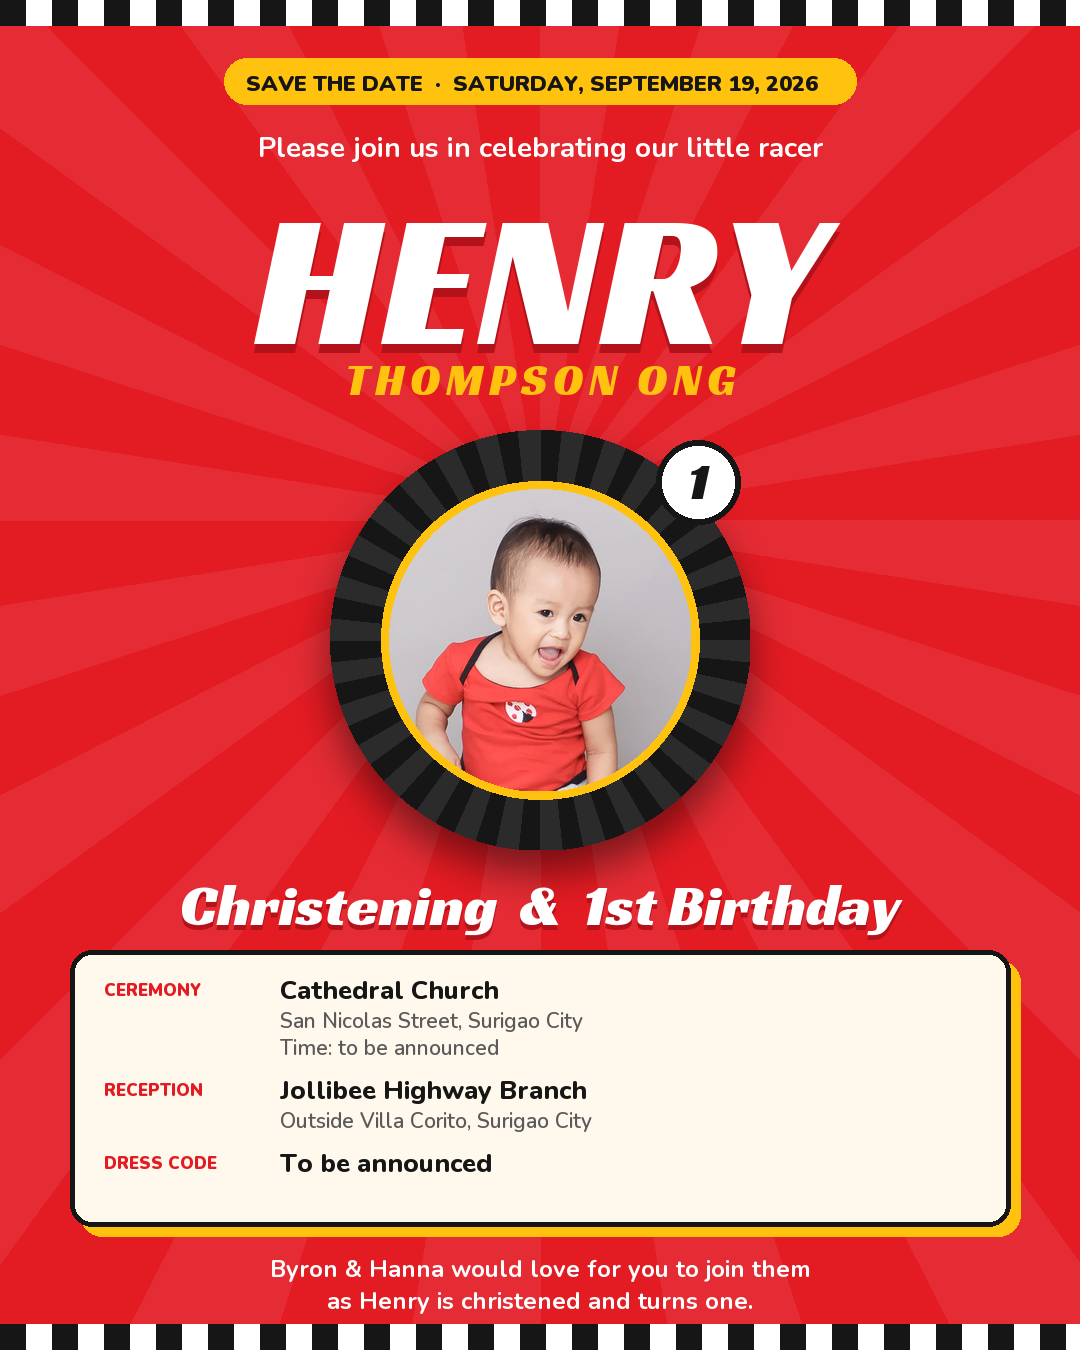
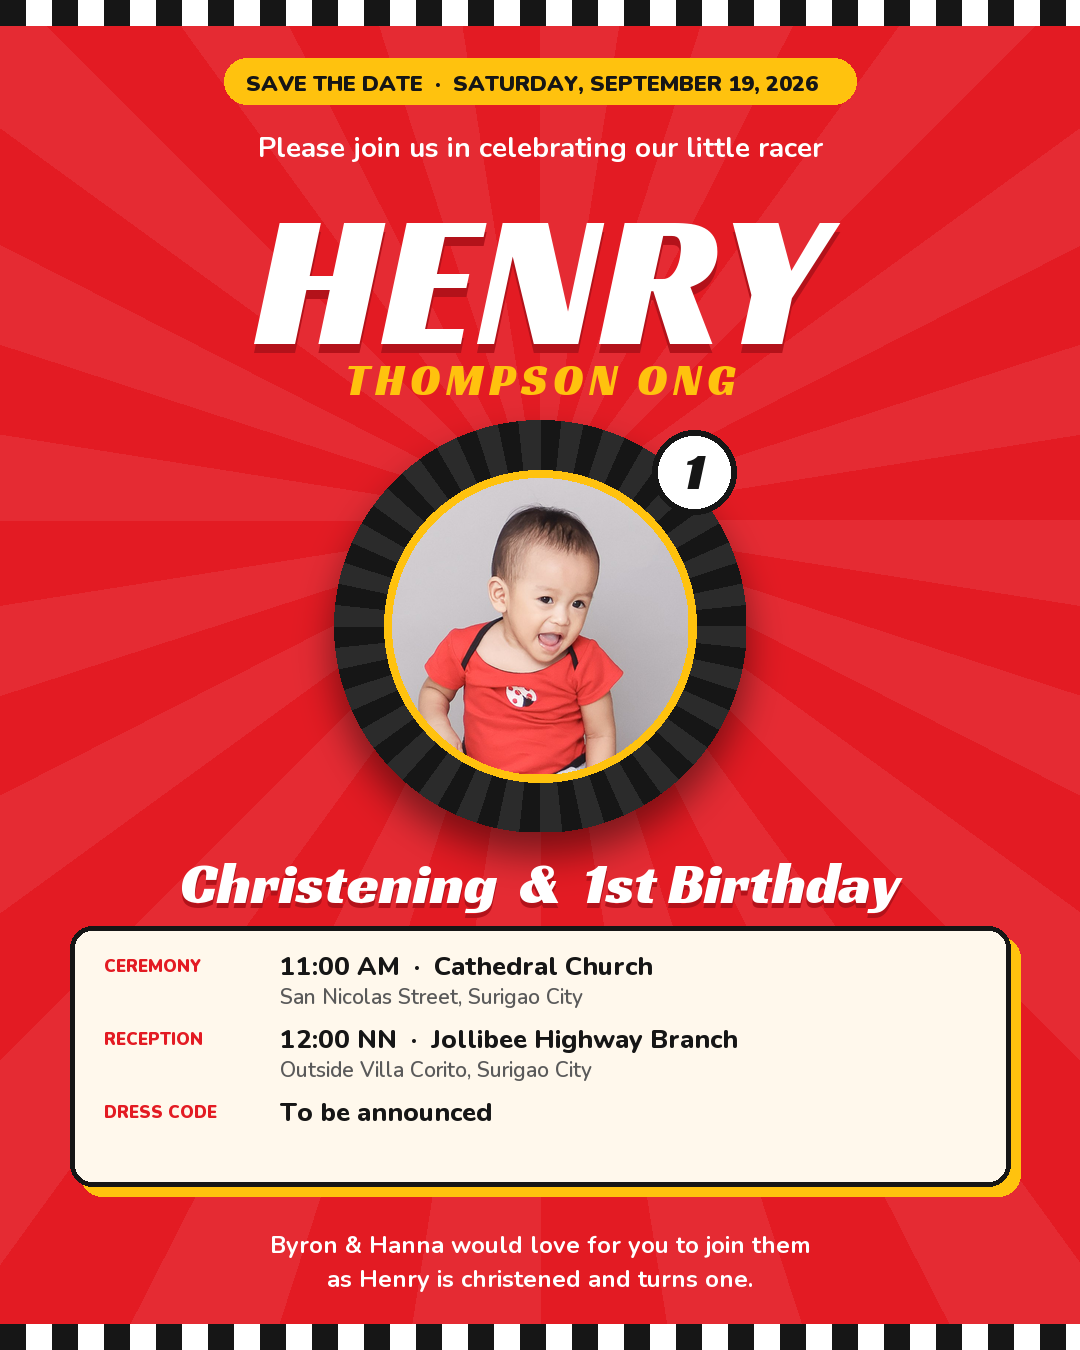
Ceremony 11:00 AM / lunch 12:00 NN, godparents listed, links prefilled, personalised godparent cards

Changed region(s): [[0.0611, 0.3111, 0.9472, 0.9644], [0.3361, 0.3422, 0.4278, 0.4356]]

diff --git a/index.html b/index.html
@@ -374,6 +374,11 @@
   .card h4{font-size:11px;letter-spacing:2px;text-transform:uppercase;color:#888;font-weight:900}
   .card p{margin-top:8px;font-size:clamp(16px,4.6vw,20px);line-height:1.2;font-weight:900;color:var(--black)}
   .card.full{grid-column:1/-1}
+  .card.godp h4 + ul{margin:8px 0 14px}
+  .card.godp ul{list-style:none;display:grid;grid-template-columns:1fr 1fr;gap:6px 14px;text-align:left}
+  .card.godp li{font-size:14px;font-weight:700;color:var(--black);line-height:1.3;padding-left:14px;position:relative}
+  .card.godp li::before{content:"";position:absolute;left:0;top:7px;width:7px;height:7px;border-radius:50%;background:var(--red)}
+  @media (max-width:420px){.card.godp ul{grid-template-columns:1fr}}
 
   /* footer */
   footer{background:var(--red);color:#fff;text-align:center;padding:48px 0 40px;position:relative;overflow:hidden}
@@ -501,7 +506,7 @@
     <div class="btns">
       <!-- CALENDAR: all-day until the time is final; then switch dates to 20260919T090000/20260919T130000 -->
       <a class="btn" id="calBtn" target="_blank" rel="noopener"
-         href="https://calendar.google.com/calendar/render?action=TEMPLATE&text=Henry%27s%20Christening%20%26%201st%20Birthday&dates=20260919/20260920&details=Ceremony%3A%20Cathedral%20Church%2C%20San%20Nicolas%20Street%2C%20Surigao%20City.%20Reception%3A%20Jollibee%20Highway%20Branch%2C%20outside%20Villa%20Corito%2C%20Surigao%20City.&location=Cathedral%20Church%2C%20San%20Nicolas%20Street%2C%20Surigao%20City">
+         href="https://calendar.google.com/calendar/render?action=TEMPLATE&text=Henry%27s%20Christening%20%26%201st%20Birthday&dates=20260919T110000/20260919T150000&ctz=Asia/Manila&details=Ceremony%3A%20Cathedral%20Church%2C%20San%20Nicolas%20Street%2C%20Surigao%20City.%20Reception%3A%20Jollibee%20Highway%20Branch%2C%20outside%20Villa%20Corito%2C%20Surigao%20City.&location=Cathedral%20Church%2C%20San%20Nicolas%20Street%2C%20Surigao%20City">
         <svg viewBox="0 0 24 24" fill="none" stroke="currentColor" stroke-width="2.4" stroke-linecap="round" stroke-linejoin="round"><rect x="3" y="5" width="18" height="16" rx="2"/><path d="M3 10h18M8 3v4M16 3v4M12 13v5M9.5 15.5h5"/></svg>
         Add to calendar
       </a>
@@ -522,7 +527,7 @@
 
       <div class="item">
         <div class="ico"><svg viewBox="0 0 24 24" fill="none" stroke="currentColor" stroke-width="2" stroke-linecap="round" stroke-linejoin="round"><circle cx="12" cy="12" r="9"/><path d="M12 7v5l3 2"/></svg></div>
-        <div><h3>Time</h3><p><span class="tba">To be announced</span></p></div>
+        <div><h3>Time</h3><p>11:00 AM ceremony<br><small>12:00 NN lunch to follow</small></p></div>
       </div>
 
       <div class="item">
@@ -560,12 +565,12 @@
       <div class="lap" data-n="1">
         <div class="l">First &middot; Ceremony</div>
         <div class="t race">Christening</div>
-        <div class="d">Cathedral Church, San Nicolas Street <span class="tba">Time TBA</span></div>
+        <div class="d">11:00 AM at Cathedral Church, San Nicolas Street.</div>
       </div>
       <div class="lap" data-n="2">
         <div class="l">Then &middot; Reception</div>
         <div class="t race">Lunch at Jollibee</div>
-        <div class="d">Jollibee Highway Branch, outside Villa Corito. Lunch, games and a lot of Chickenjoy. <span class="tba">Time TBA</span></div>
+        <div class="d">12:00 NN at Jollibee Highway Branch, outside Villa Corito. Lunch, games and a lot of Chickenjoy.</div>
       </div>
       <div class="lap" data-n="3">
         <div class="l">Finally &middot; The best part</div>
@@ -612,7 +617,18 @@
       <div class="card"><h4>Mom</h4><p>Hanna Albino</p></div>
       <div class="card full"><h4>Big sister</h4><p>Bella Bianca Mari Ong</p></div>
       <!-- GODPARENTS: fill in once confirmed -->
-      <div class="card full"><h4>Ninongs &amp; Ninangs</h4><p><span class="tba">To be announced</span></p></div>
+      <div class="card full godp">
+        <h4>Ninongs</h4>
+        <ul>
+          <li>Atty. Ronel A. Ubod</li><li>Atty. Tristan Louise D. Ando</li><li>Felibert C. Dumale</li><li>Ronin Alipao</li>
+          <li>Norlam Dominique Concepcion</li><li>Cedric Josh Kaimo</li><li>Neil Jhun Orozco</li><li>Carl Bonilla</li>
+        </ul>
+        <h4>Ninangs</h4>
+        <ul>
+          <li>Charmil Mijares</li><li>Nej Minglana</li><li>Regine Salvacion</li><li>Dianne Galanida</li>
+          <li>Catherine Mangyan</li><li>Margie Revil</li><li>Claire Concepcion</li>
+        </ul>
+      </div>
     </div>
   </div>
 </section>
@@ -651,7 +667,7 @@
   }
 
   /* ---------- countdown ---------- */
-  var target = new Date('2026-09-19T00:00:00+08:00').getTime(); // UPDATE to ceremony time when final
+  var target = new Date('2026-09-19T11:00:00+08:00').getTime(); // ceremony start
   var D=document.getElementById('cdD'),H=document.getElementById('cdH'),M=document.getElementById('cdM'),S=document.getElementById('cdS');
   function pad(n){return n<10?'0'+n:''+n}
   function tick(){

diff --git a/links.html b/links.html
@@ -26,9 +26,21 @@
   <h1>Invitation links for Henry's big day</h1>
   <p>One guest per line. Add <b>, ninong</b> or <b>, ninang</b> after a name to give them the godparent version.<br>
   Example:<br><span class="hint">Lola Ning<br>Mark Santos, ninong<br>Ana Reyes, ninang<br>Tito Jun &amp; Tita Beth</span></p>
-  <textarea id="in" placeholder="Lola Ning
-Mark Santos, ninong
-Ana Reyes, ninang"></textarea>
+  <textarea id="in">Atty. Ronel A. Ubod, ninong
+Atty. Tristan Louise D. Ando, ninong
+Felibert C. Dumale, ninong
+Ronin Alipao, ninong
+Norlam Dominique Concepcion, ninong
+Cedric Josh Kaimo, ninong
+Neil Jhun Orozco, ninong
+Carl Bonilla, ninong
+Charmil Mijares, ninang
+Nej Minglana, ninang
+Regine Salvacion, ninang
+Dianne Galanida, ninang
+Catherine Mangyan, ninang
+Margie Revil, ninang
+Claire Concepcion, ninang</textarea>
   <div>
     <button id="go">Make links</button>
     <button id="copyAll" class="alt">Copy all</button>

diff --git a/card/make_card.py b/card/make_card.py
@@ -1,9 +1,15 @@
-"""Static invitation card for Henry's First Lap. Usage: python make_card.py [godparents|guests] [out.png]"""
+"""Static invitation card for Henry's First Lap.
+Usage: python make_card.py [godparents|guests] [out.png]
+       python make_card.py ninong|ninang "Full Name" out.png   (personalised)"""
 from PIL import Image, ImageDraw, ImageFont, ImageFilter, ImageOps
 import math, sys
 
 VARIANT = sys.argv[1] if len(sys.argv) > 1 else 'godparents'
-OUT = sys.argv[2] if len(sys.argv) > 2 else f'henry-invite-{VARIANT}.png'
+NAME = None
+if VARIANT in ('ninong', 'ninang'):
+    NAME = sys.argv[2]; OUT = sys.argv[3]
+else:
+    OUT = sys.argv[2] if len(sys.argv) > 2 else f'henry-invite-{VARIANT}.png'
 
 W, H = 1080, 1350
 RED, RED_DARK, YELLOW, BLACK, CREAM, WHITE, BLUE = (227, 27, 35), (179, 18, 26), (255, 194, 14), (22, 22, 22), (255, 248, 236), (255, 255, 255), (31, 95, 191)
@@ -58,7 +64,7 @@ center("HENRY", 158, racing(190), WHITE, shadow=(RED_DARK, 9))
 center("THOMPSON ONG", 352, racing(44), YELLOW, tracking=6)
 
 # ---- tyre with photo
-tcx, tcy, tr = W // 2, 640, 210
+tcx, tcy, tr = W // 2, 626, 206
 tyre = Image.new('RGBA', (tr * 2, tr * 2), (0, 0, 0, 0)); td = ImageDraw.Draw(tyre)
 td.ellipse((0, 0, tr * 2, tr * 2), fill=BLACK)
 for i in range(0, 360, 12):  # tread
@@ -81,10 +87,10 @@ d.ellipse((rx - rr, ry - rr, rx + rr, ry + rr), fill=WHITE, outline=BLACK, width
 f = racing(52); d.text((rx - text_w("1", f) / 2, ry - 34), "1", font=f, fill=BLACK)
 
 # ---- event line
-center("Christening  &  1st Birthday", 868, racing(58), WHITE, shadow=(RED_DARK, 5))
+center("Christening  &  1st Birthday", 846, racing(58), WHITE, shadow=(RED_DARK, 5))
 
 # ---- details card
-cx0, cy0, cx1, cy1 = 70, 950, W - 70, 1226
+cx0, cy0, cx1, cy1 = 70, 926, W - 70, 1186
 d.rounded_rectangle((cx0 + 10, cy0 + 10, cx1 + 10, cy1 + 10), radius=22, fill=YELLOW)
 d.rounded_rectangle((cx0, cy0, cx1, cy1), radius=22, fill=CREAM, outline=BLACK, width=5)
 y = cy0 + 22
@@ -96,19 +102,26 @@ def row(label, lines, y):
     for ln in lines[1:]:
         d.text((cx0 + 210, yy), ln, font=f3, fill=(90, 90, 90)); yy += 27
     return yy + 12
-y = row("CEREMONY", ["Cathedral Church", "San Nicolas Street, Surigao City", "Time: to be announced"], y)
-y = row("RECEPTION", ["Jollibee Highway Branch", "Outside Villa Corito, Surigao City"], y)
+y = row("CEREMONY", ["11:00 AM  ·  Cathedral Church", "San Nicolas Street, Surigao City"], y)
+y = row("RECEPTION", ["12:00 NN  ·  Jollibee Highway Branch", "Outside Villa Corito, Surigao City"], y)
 y = row("DRESS CODE", ["To be announced"], y)
 
 # ---- closing line (variant)
-if VARIANT == 'godparents':
+if NAME:
+    center(f"Dear {NAME},", 1206, nunito(30, 900), YELLOW)
     l1 = "Byron & Hanna would be honoured to have you"
-    l2 = "stand as Ninong or Ninang to Henry."
+    l2 = f"stand as {'Ninong' if VARIANT == 'ninong' else 'Ninang'} to Henry."
+    center(l1, 1250, nunito(24, 700), WHITE)
+    center(l2, 1282, nunito(24, 700), WHITE)
 else:
-    l1 = "Byron & Hanna would love for you to join them"
-    l2 = "as Henry is christened and turns one."
-center(l1, 1252, nunito(24, 700), WHITE)
-center(l2, 1284, nunito(24, 700), WHITE)
+    if VARIANT == 'godparents':
+        l1 = "Byron & Hanna would be honoured to have you"
+        l2 = "stand as Ninong or Ninang to Henry."
+    else:
+        l1 = "Byron & Hanna would love for you to join them"
+        l2 = "as Henry is christened and turns one."
+    center(l1, 1228, nunito(24, 700), WHITE)
+    center(l2, 1262, nunito(24, 700), WHITE)
 
 img.save(OUT, quality=95)
 print('saved', OUT)
